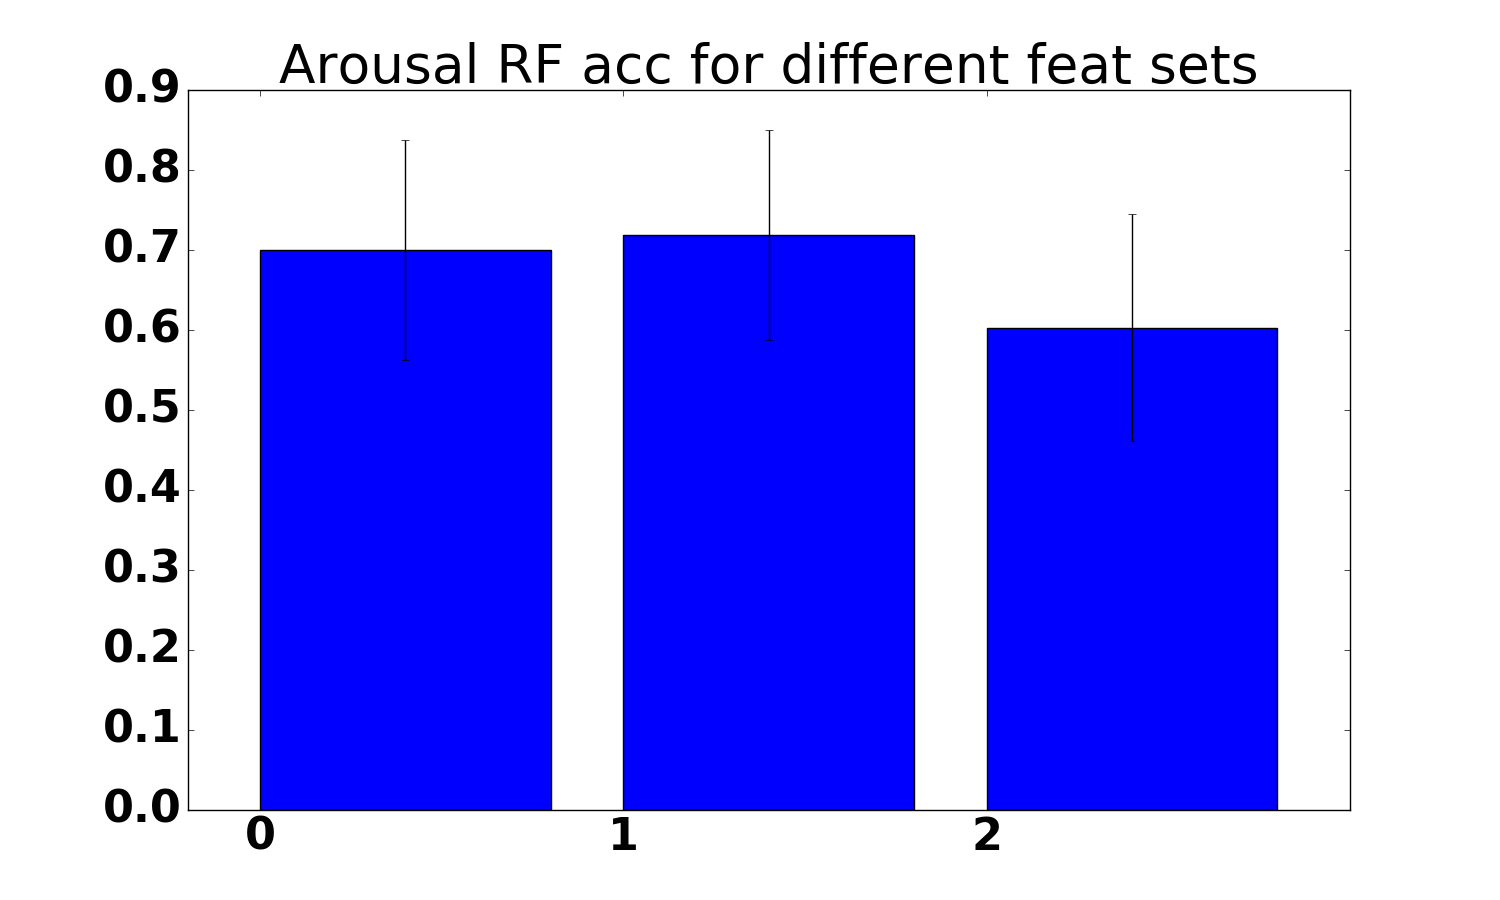
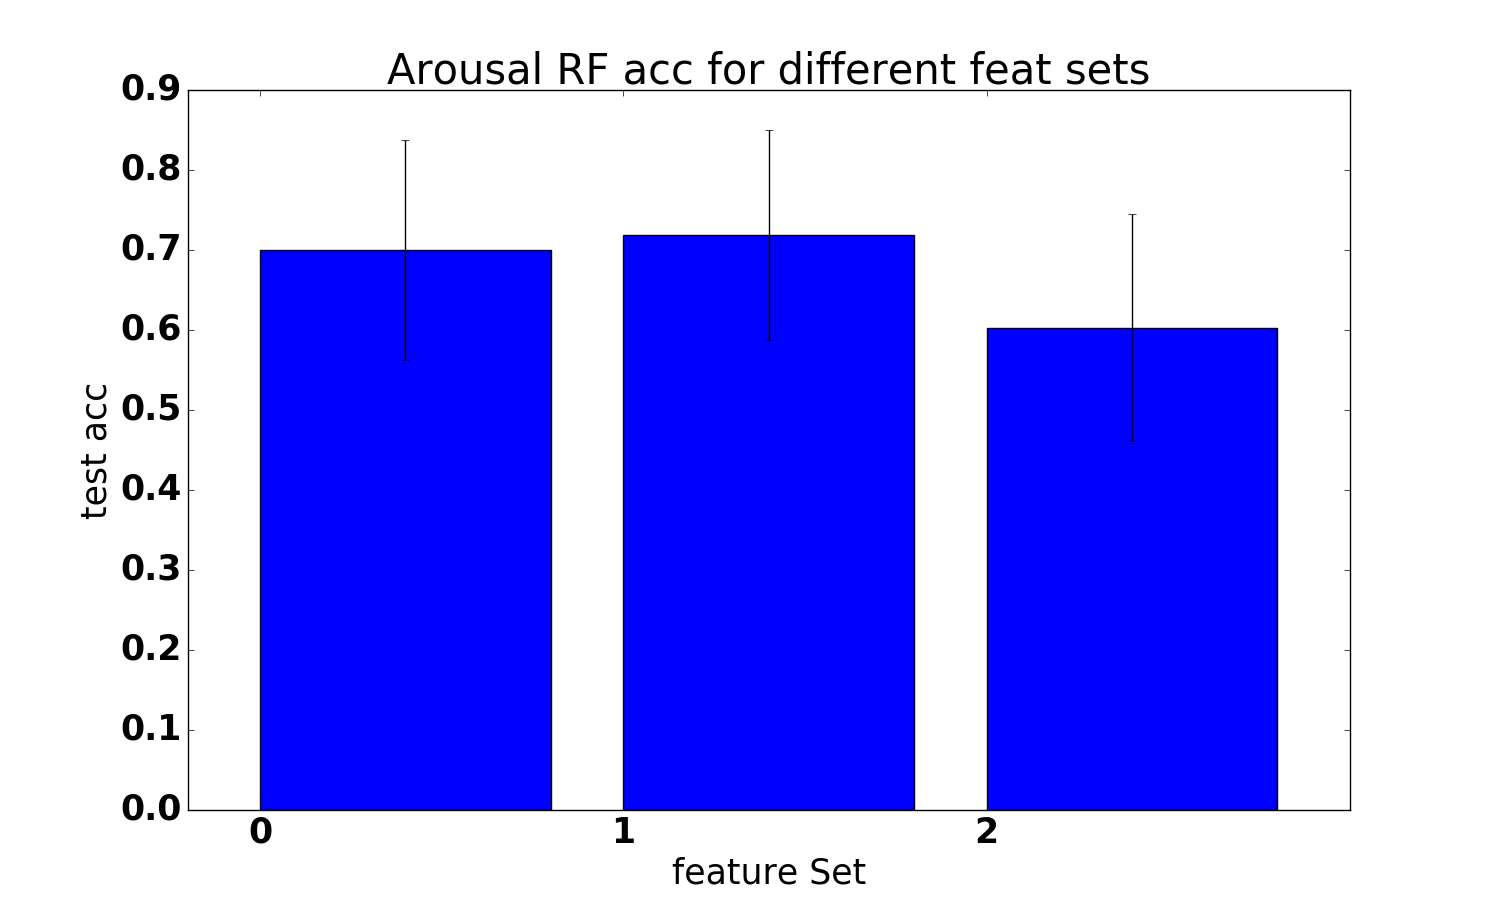
slides

diff --git a/app/grapher.py b/app/grapher.py
@@ -15,7 +15,7 @@ font = {'family': 'normal',
 matplotlib.rc('font', **font)
 
 
-def genPlot(avgs,stds,lbls,title,bar_colors=None,fpad="../results/plots/"):
+def genPlot(avgs,stds,lbls,title,xLbl= '', yLbl='',bar_colors=None,fpad="../results/plots/"):
 
     fname = fpad + 'accComp_' + str(title) + '.png'
 
@@ -46,6 +46,8 @@ def genPlot(avgs,stds,lbls,title,bar_colors=None,fpad="../results/plots/"):
     # ax.legend(loc='upper center', bbox_to_anchor=(0.5, 0.25),
     #          ncol=4, fancybox=True, shadow=True)
 
+    ax.set_xlabel(xLbl)
+    ax.set_ylabel(yLbl)
     plt.savefig(fname)
 
     plt.show()
@@ -147,7 +149,9 @@ def svm_rbf_accs():
     genPlot(avgs,
             stds,
             ['R', 'MI', 'dC', 'LR', 'L1', 'L2', 'SVM', 'RF', 'ANOVA', 'LDA', 'PCA'],
-            'valence Accs RBF SVM'
+            'valence Accs RBF SVM',
+            'model',
+            'test acc'
     )
 
     # get testaccs
@@ -173,7 +177,9 @@ def svm_rbf_accs():
     genPlot(avgs,
             stds,
             ['R', 'MI', 'dC', 'LR', 'L1', 'L2', 'SVM', 'RF', 'ANOVA', 'LDA', 'PCA'],
-            'arousal Accs RBF SVM'
+            'arousal Accs RBF SVM',
+            'model',
+            'test acc'
             )
 
 def phyeegall():
@@ -210,7 +216,9 @@ def phyeegall():
     genPlot(avgs,
             stds,
             lbls,
-            'Valence RF acc for different feat sets'
+            'Valence RF acc for different feat sets',
+            'feature Set',
+            'test acc'
             )
 
     test_accs = []
@@ -245,7 +253,9 @@ def phyeegall():
     genPlot(avgs,
             stds,
             lbls,
-            'Arousal RF acc for different feat sets'
+            'Arousal RF acc for different feat sets',
+            'feature Set',
+            'test acc'
             )
 
 def linear_regression_example():
@@ -288,8 +298,8 @@ def linear_regression_example():
         print(str(X[i]) + ';' + str(Y[i]))
 
 if __name__ == '__main__':
-    linear_regression_example()
-
+    svm_rbf_accs()
+    phyeegall()
 
 
 
